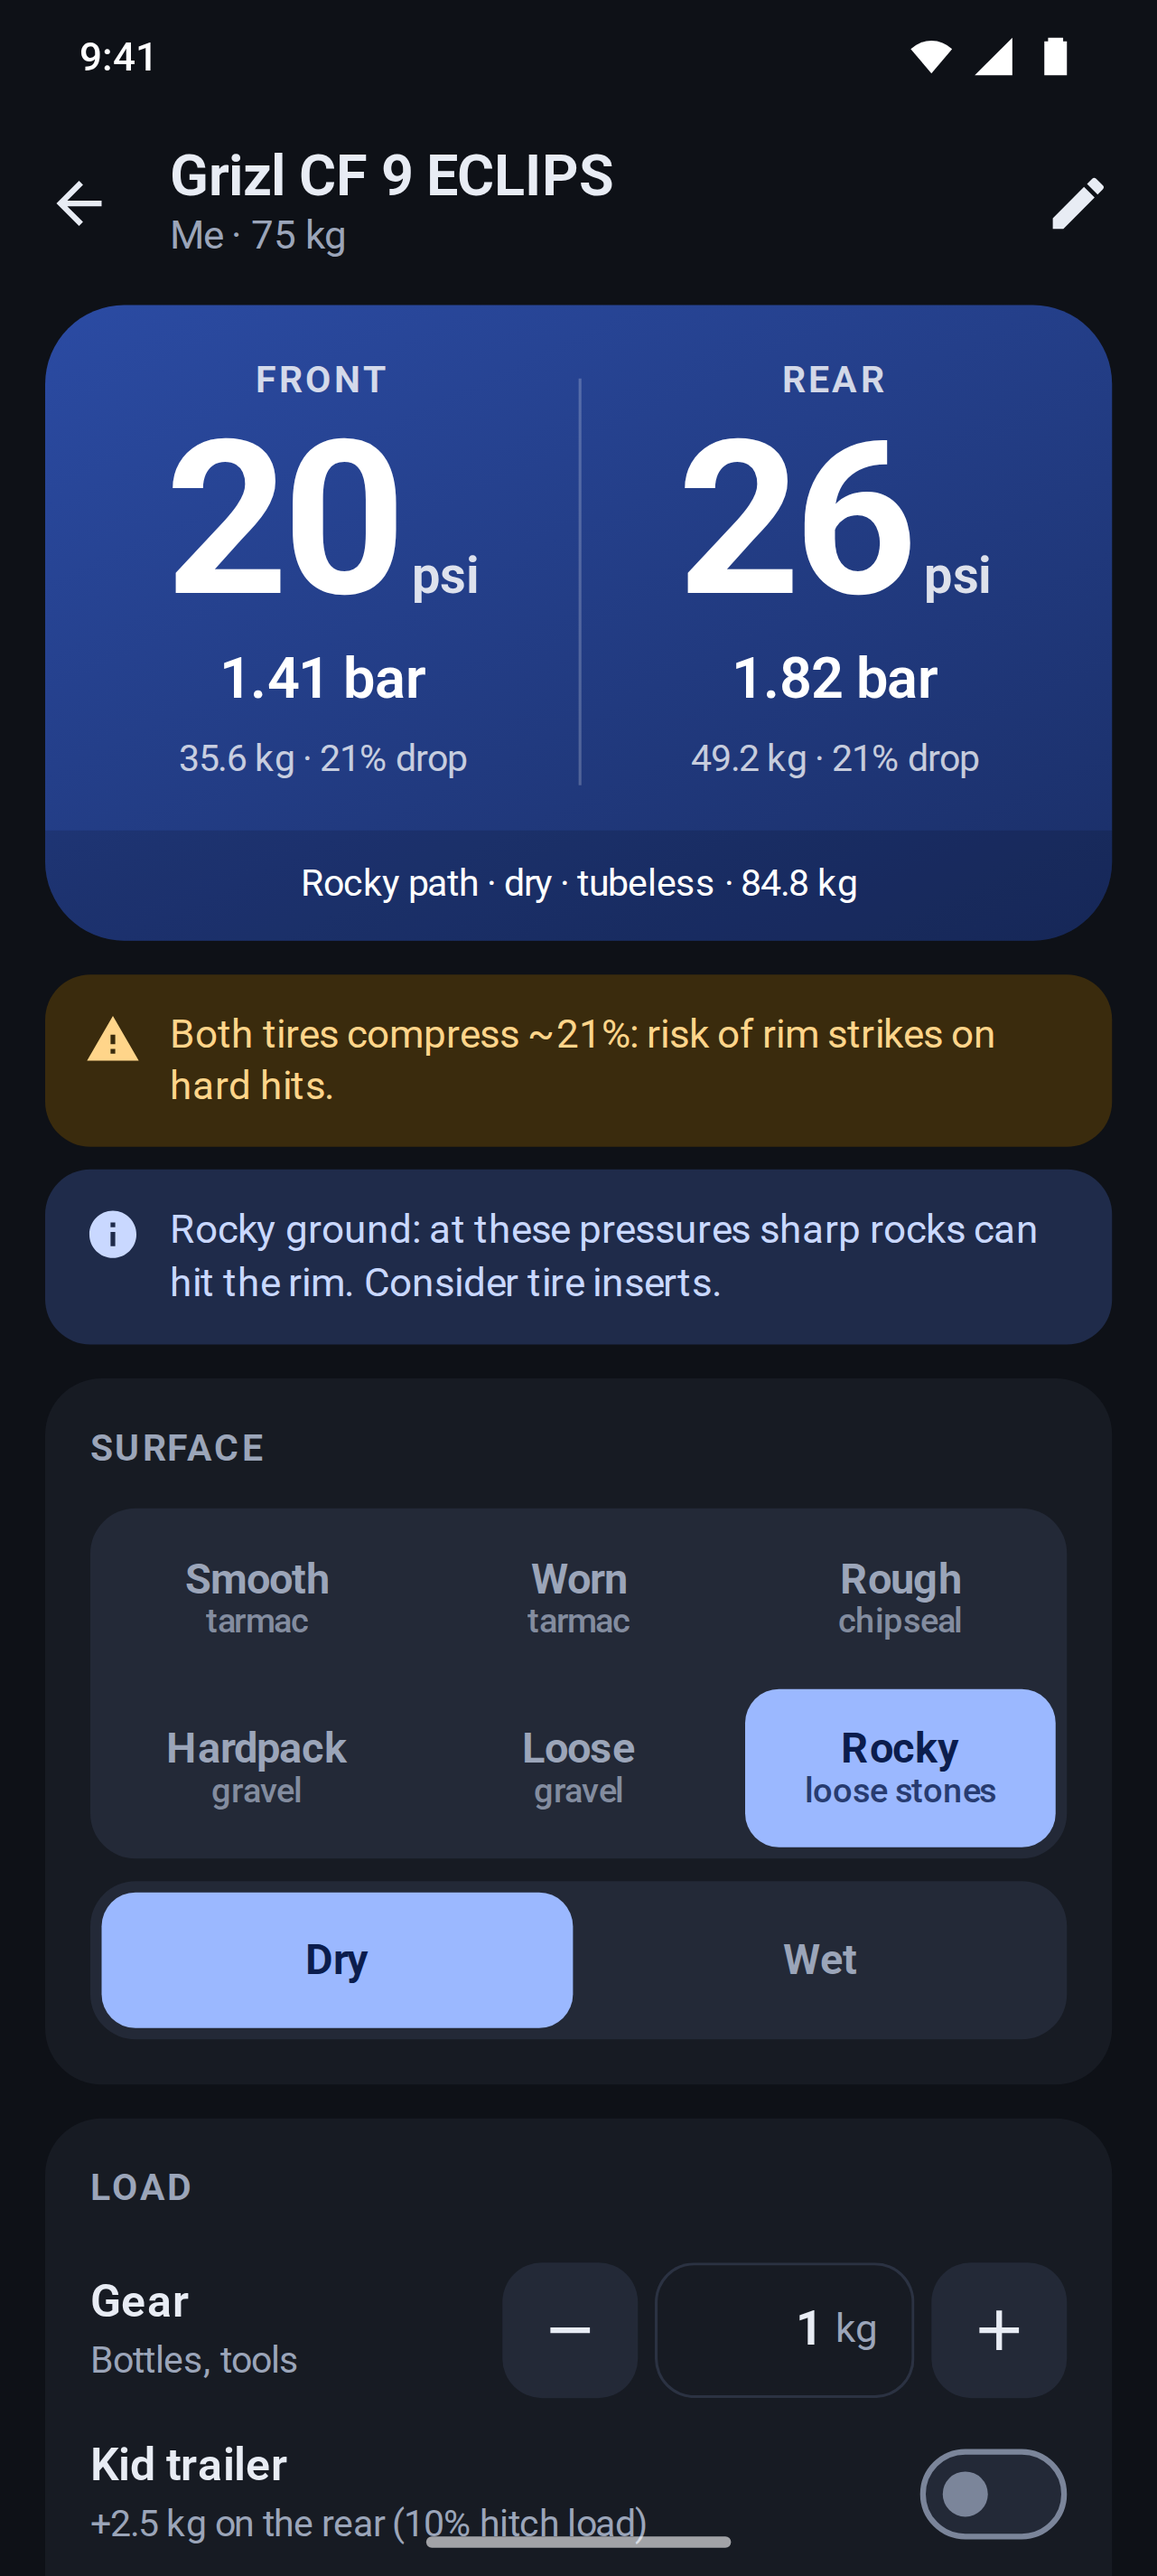
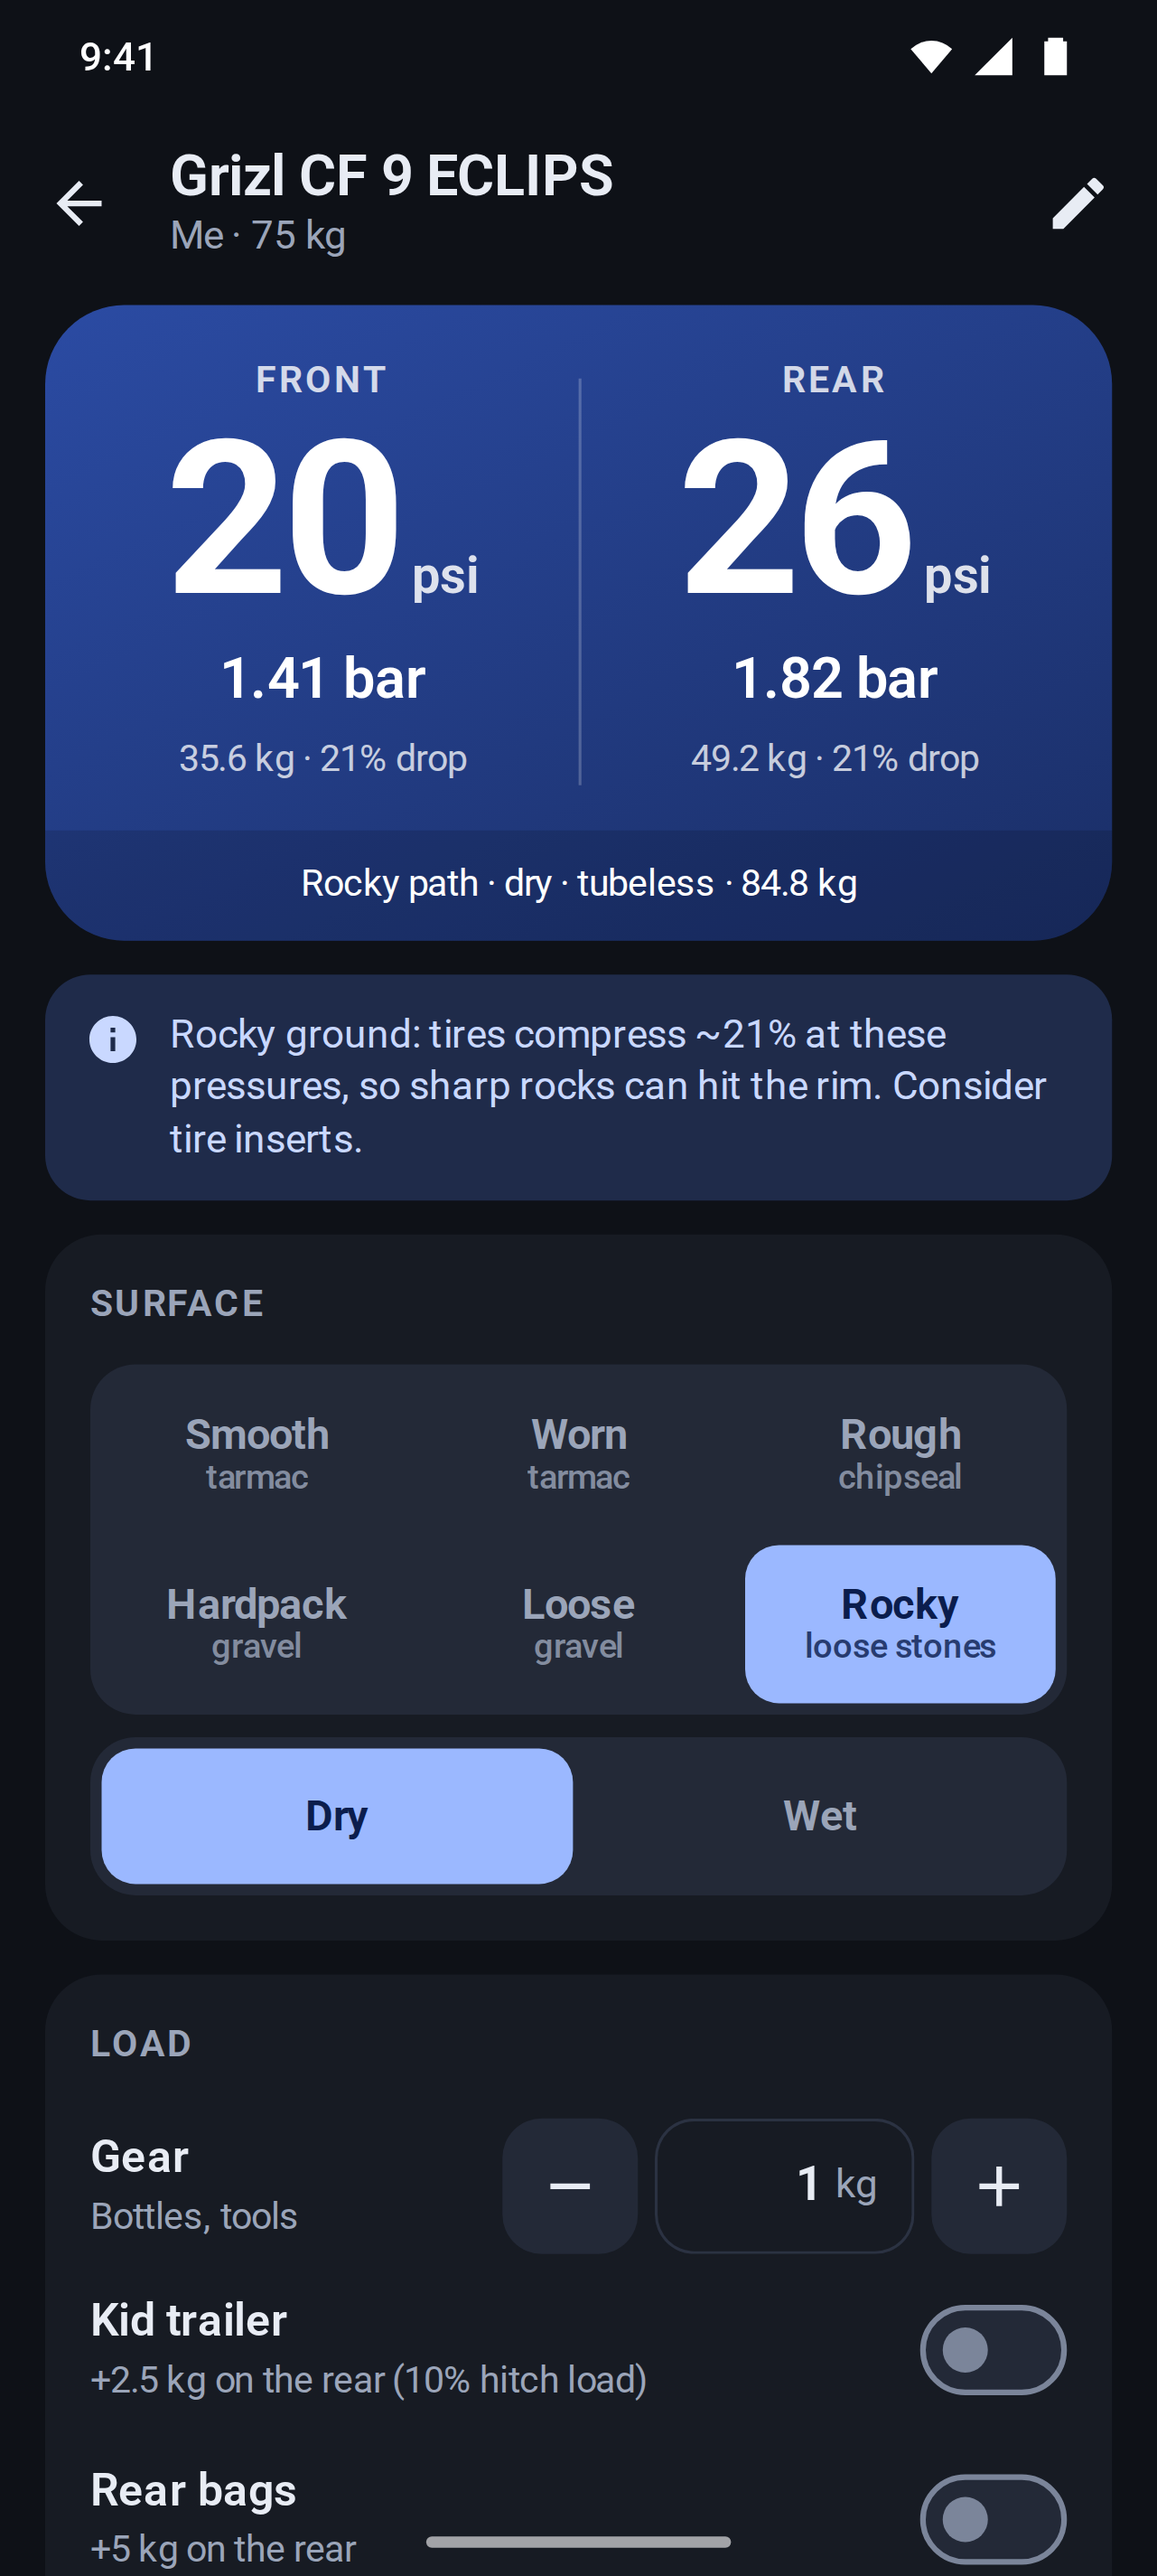
Show one rim-strike note on rocky ground
Rocky's 0.73 factor asks for a ~21% drop on purpose, which always crossed
the 20%/18% compression warning. The rocky info note now gives the drop,
and the amber warning only fires when the drop goes past what rocky
implies (in practice, a cap from a limit, which already says so).

Copilot-Session: 3e803c70-81c8-48c4-b694-af37656ba006

Changed region(s): [[0.0312, 0.3747, 0.968, 0.9993], [0.7806, 0.8432, 0.9368, 0.9993], [0.687, 0.8432, 0.7494, 0.9056]]

diff --git a/src/model/pressure.test.ts b/src/model/pressure.test.ts
@@ -322,7 +322,41 @@ describe('limits and warnings', () => {
     const inserts = (surface: RideSettings['surface']) =>
       ride('seed-grizl', { surface }).warnings.filter((w) => /inserts/.test(w.message));
     expect(inserts('rocky')).toEqual([expect.objectContaining({ level: 'info', wheels: [] })]);
+    expect(inserts('rocky')[0]!.message).toBe(
+      'Rocky ground: tires compress ~21% at these pressures, so sharp rocks can hit the rim. Consider tire inserts.',
+    );
     for (const surface of SURFACES.filter((s) => s !== 'rocky')) expect(inserts(surface)).toEqual([]);
+  });
+
+  it('does not warn about the drop rocky itself asks for', () => {
+    for (const profile of SEED_PROFILES) {
+      for (const tubeless of [true, false]) {
+        for (const wet of [false, true]) {
+          const bike = { ...profile, tubeless };
+          const r = computePressure(toPressureInput(bike, { ...defaultRide(bike), surface: 'rocky', wet }));
+          expect(r.front.drop, `${profile.id} tubeless=${tubeless} wet=${wet}`).toBeGreaterThan(
+            tubeless ? LIMITS.maxDropWarning : LIMITS.maxDropWarningTube,
+          );
+          expect(r.warnings.filter((w) => w.level !== 'info')).toEqual([]);
+          expect(r.warnings.filter((w) => /hit the rim|rim strikes|pinch flats/.test(w.message))).toHaveLength(1);
+        }
+      }
+    }
+  });
+
+  it('still warns on rocky ground when a load pushes the drop further', () => {
+    const grizl = { ...seed('seed-grizl'), tireMaxPsi: 27 };
+    const rocky = { ...defaultRide(grizl), surface: 'rocky' as const };
+    const solo = computePressure(toPressureInput(grizl, rocky));
+    expect(solo.rear.clamped).toBeNull();
+    expect(solo.warnings.filter((w) => w.level !== 'info')).toEqual([]);
+
+    const towing = computePressure(toPressureInput(grizl, { ...rocky, trailer: true }));
+    expect(towing.rear.clamped).toBe('max');
+    expect(towing.rear.drop).toBeGreaterThan(solo.rear.drop);
+    const rear = towing.warnings.filter((w) => w.wheels.includes('rear'));
+    expect(rear).toEqual([expect.objectContaining({ level: 'danger' })]);
+    expect(rear[0]!.message).toMatch(/capped at 27 psi: the tire maximum\. That leaves ~\d+% tire drop, so expect rim strikes/);
   });
 
   it('rejects nonsense input', () => {

diff --git a/src/model/pressure.ts b/src/model/pressure.ts
@@ -321,7 +321,11 @@ function wheelWarnings(calc: Record<Wheel, WheelCalc>, input: PressureInput): Wa
     });
   }
 
-  const soft = WHEELS.filter((w) => !['max', 'unreachable'].includes(calc[w].result.clamped ?? '') && tooSoft(w));
+  // Rocky asks for that drop on purpose and its own note explains the risk: only warn when something pushes it further.
+  const surfaceDrop = input.surface === 'rocky' ? estimateDrop(1, conditionMultiplier(input)) * (1 + 1e-9) : 0;
+  const soft = WHEELS.filter(
+    (w) => !['max', 'unreachable'].includes(calc[w].result.clamped ?? '') && tooSoft(w) && calc[w].result.drop > surfaceDrop,
+  );
   if (soft.length) {
     warnings.push({
       level: 'warn',
@@ -331,7 +335,7 @@ function wheelWarnings(calc: Record<Wheel, WheelCalc>, input: PressureInput): Wa
   }
 
   const low = WHEELS.filter(
-    (w) => calc[w].result.clamped === null && !tooSoft(w) && calc[w].result.psi < LIMITS.lowPsiWarning,
+    (w) => calc[w].result.clamped === null && !soft.includes(w) && calc[w].result.psi < LIMITS.lowPsiWarning,
   );
   if (low.length) {
     warnings.push({
@@ -360,10 +364,15 @@ export function computePressure(input: PressureInput): PressureResult {
   warnings.push(...wheelWarnings(calc, input));
 
   if (input.surface === 'rocky') {
+    // Capped wheels compress more, and their danger warning already says by how much.
+    const uncapped = [front, rear].filter((r) => r.clamped !== 'max' && r.clamped !== 'unreachable');
+    const compress = uncapped.length
+      ? `tires compress ~${Math.round(Math.max(...uncapped.map((r) => r.drop)) * 100)}% at these pressures, so `
+      : 'at these pressures ';
     warnings.push({
       level: 'info',
       wheels: [],
-      message: 'Rocky ground: at these pressures sharp rocks can hit the rim. Consider tire inserts.',
+      message: `Rocky ground: ${compress}sharp rocks can hit the rim. Consider tire inserts.`,
     });
   }
   if (input.hookless && !input.tubeless) {

diff --git a/screenshots/app.spec.ts b/screenshots/app.spec.ts
@@ -109,6 +109,7 @@ test('Grizl on a rocky path', async ({ page }) => {
   await expect(page.getByRole('radio', { name: /Rocky/ })).toHaveAttribute('aria-checked', 'true');
   await expect.poll(front).toBeLessThan(hardpack);
   await expect(page.locator('.alert', { hasText: /inserts/ })).toBeVisible();
+  await expect(page.locator('.alert')).toHaveCount(1);
   await expect(page.locator('.result-foot')).toContainText('Rocky path');
   await shoot(page, '11-grizl-rocky');
 });

diff --git a/README.md b/README.md
@@ -111,7 +111,7 @@ The ride temperature can come from [Open-Meteo](https://open-meteo.com/en/docs)'
 ### 7. Limits and warnings
 
 - **Hookless rims** are capped at **5 bar / 72.5 psi** (ETRTO / ISO). Optional tire max, tire min and rim max limits from the sidewall or rim manual also clamp the result. Displayed values never round past a limit, clamped or not: a 72.5 psi hookless cap shows as 72, and a 55.8 psi result under a 55.9 psi tire max shows as 55. When no whole step fits between the limits, up to two more decimals are shown (30.3 psi between 30.2 and 30.4); equal limits show the limit itself (min = max = 30 psi is 2.0684 bar). The maximum always wins: if the tire minimum is above the rim or tire maximum, the app caps at the maximum, flags the combination as unsafe, and the editor won't save it.
-- **Estimated tire drop** at the recommended pressure is `15% × P_base / P`, shown under each wheel. The app warns above 20% (tubeless: risk of rim strikes) or 18% (tubes: risk of pinch flats).
+- **Estimated tire drop** at the recommended pressure is `15% × P_base / P`, shown under each wheel. The app warns above 20% (tubeless: risk of rim strikes) or 18% (tubes: risk of pinch flats). Rocky ground asks for about 21% on purpose, so there its info note gives the drop instead, and the warning appears only when a limit pushes the drop further.
 - Info notes cover very low pressures (< 18 psi), hookless rims with tubes, front shares outside 30–55%, and rocky ground, where sharp rocks can hit the rim at these pressures, so tire inserts are worth considering.
 
 ### Validation
